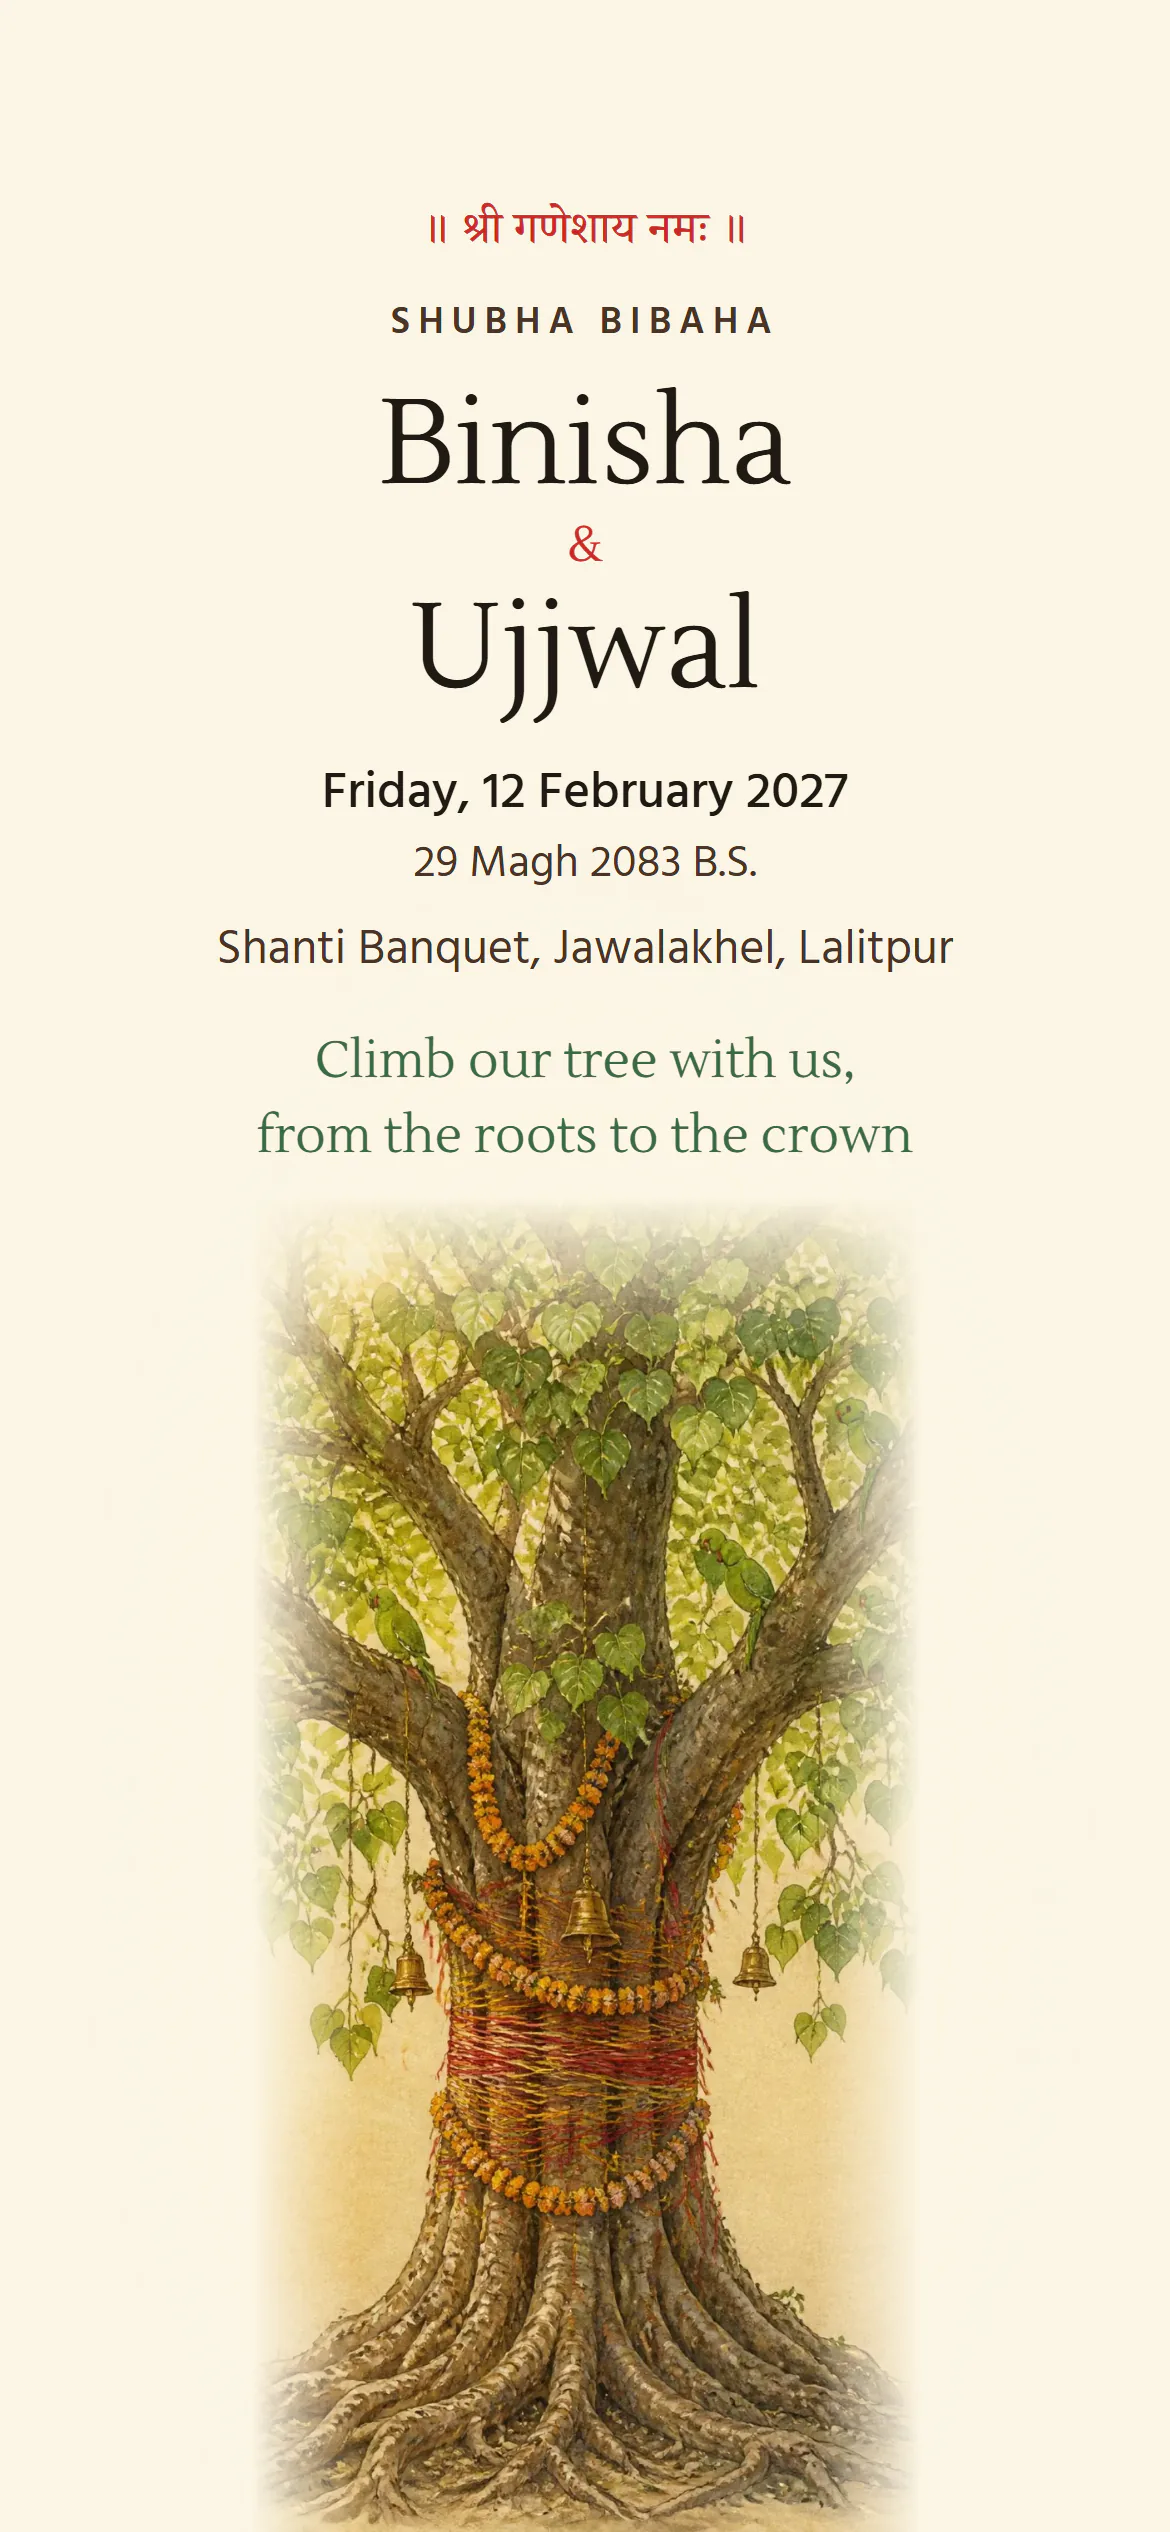
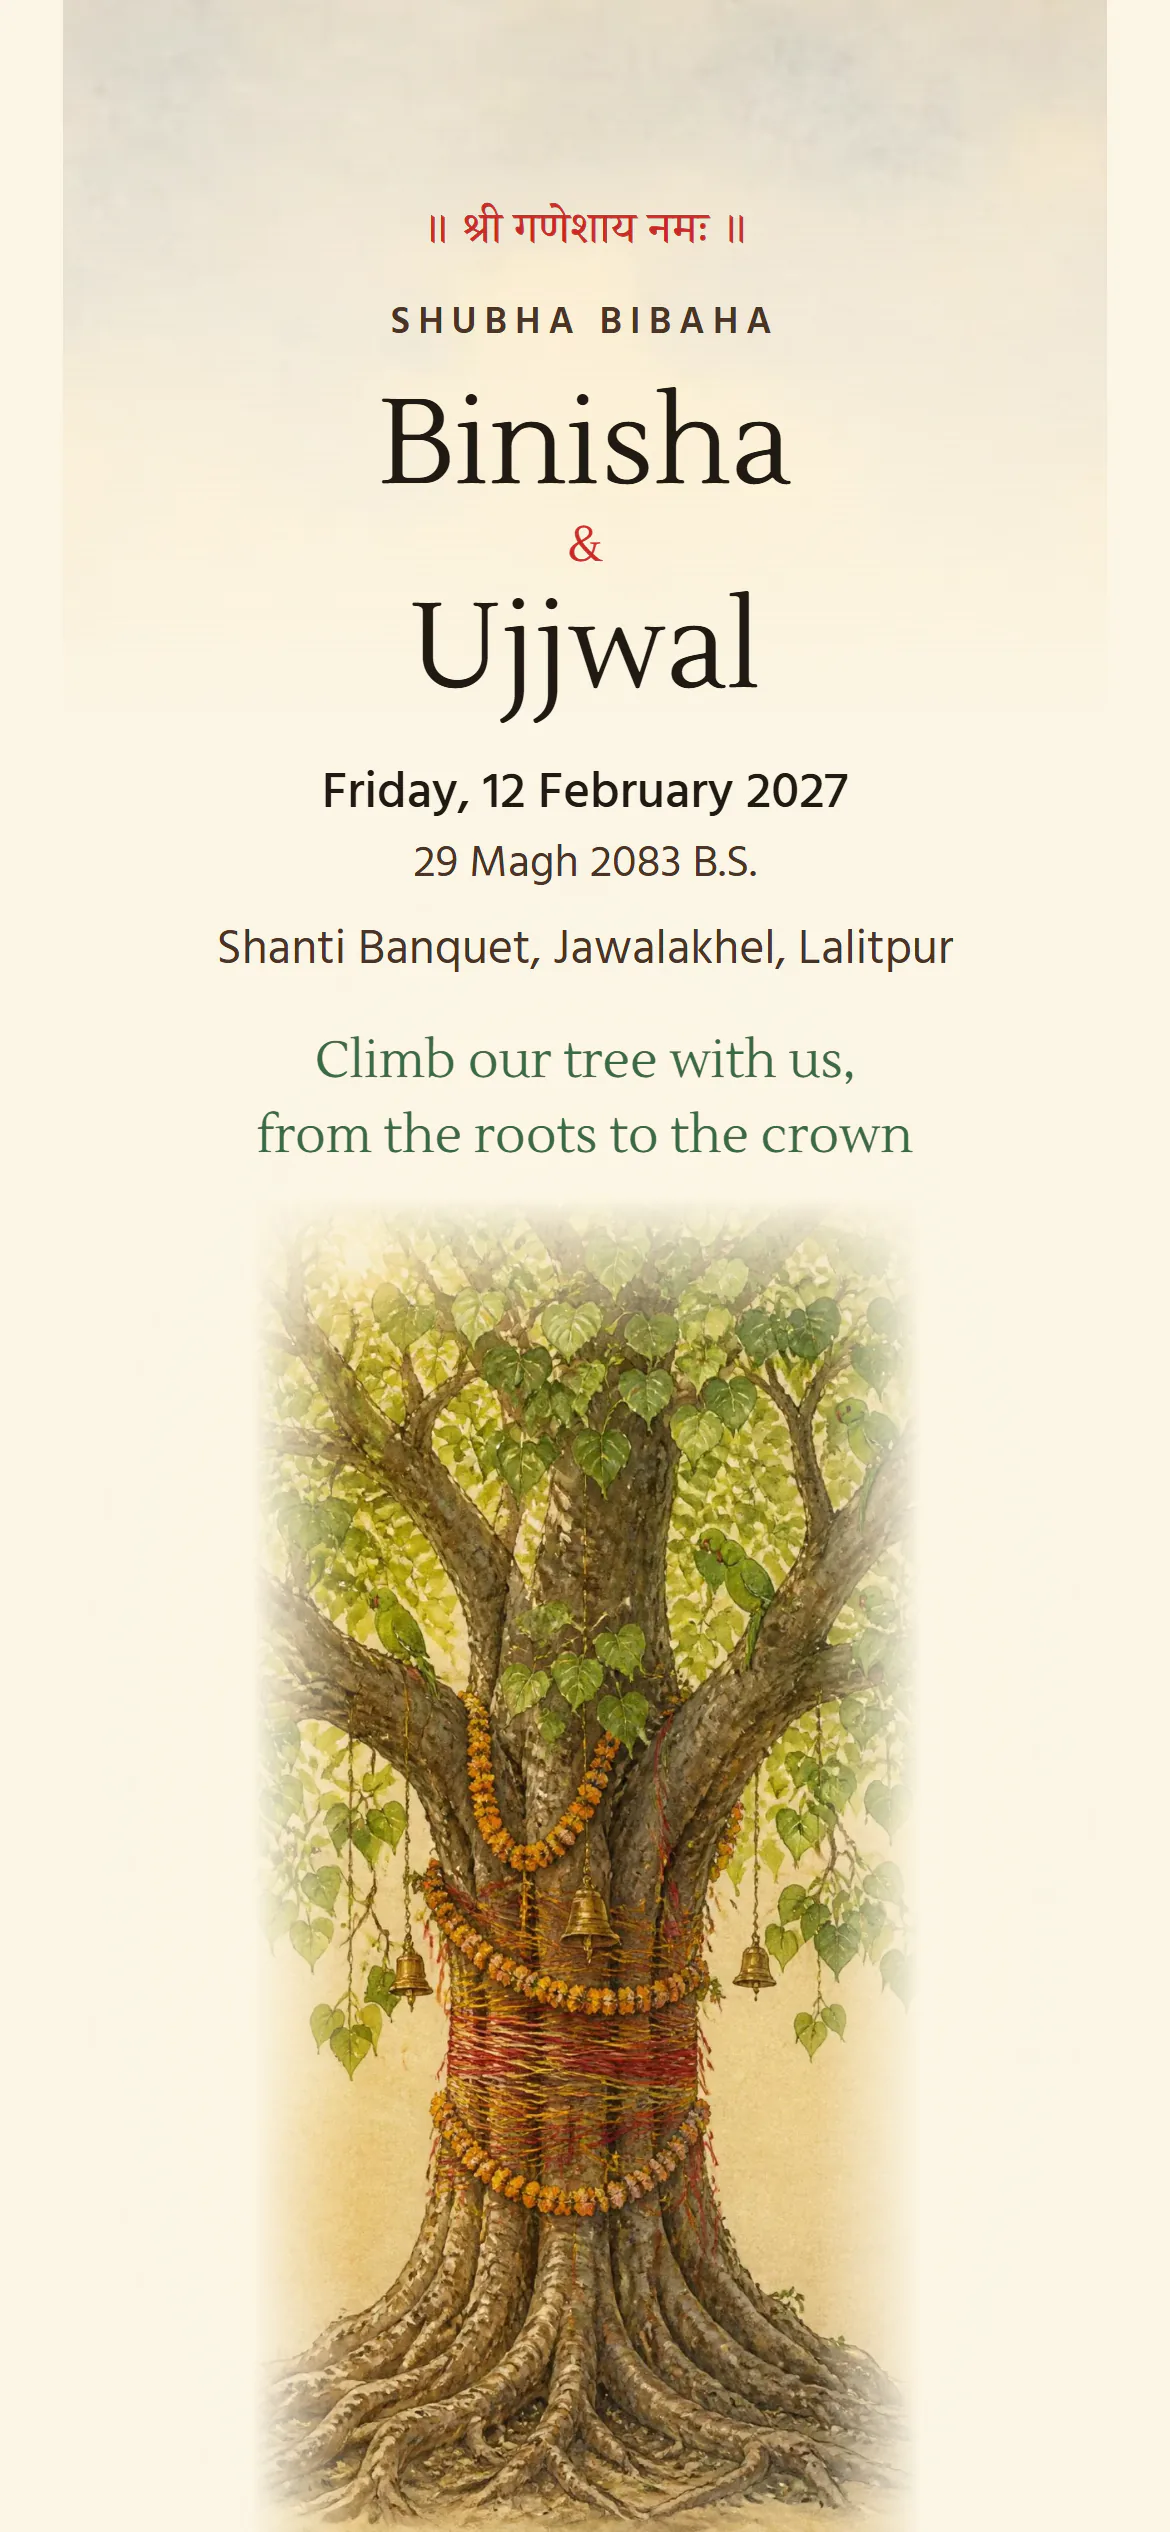
fix(kalpataru): painted full width, wedding decor on the tree, full opening
- desktop: a wider tree plus painted canopy sides (a nearer layer that
  moves faster than the tree), no flat side bands
- wedding decoration hung on the branches: marigold and rose strands on
  mauli thread, hanging brass diyas with marigold tassels (Hindu pages
  only), a toran over the couple and the families, fresh petals at the roots
- opening: the leaf hangs in full-screen foliage, the buttons sit on paper;
  the first screen's words arrive as the tree lands, a soft sky behind them
- a calm paper corner under the language and music buttons

Changed region(s): [[0.0308, 0.0, 0.9538, 0.0936]]

diff --git a/src/themes/kalpataru/main.js b/src/themes/kalpataru/main.js
@@ -22,6 +22,25 @@ const PANELS = [
   { n: 'branches', s: 1.02, x: -0.01, ov: 0.42, c: 0.5 },
   { n: 'crown', s: 1.04, x: -0.02, ov: 0.48, c: 0.5 },
 ];
+// fresh wedding decoration on the tree: [panel, x (panel width), top (panel height), width (tree widths), kind, hindu?]
+const DECOR = [
+  ['roots', 0.5, 0.79, 0.96, 'petals'],
+  ['roots', 0.1, 0.04, 0.052, 'strand'], ['roots', 0.9, 0.08, 0.05, 'strand'],
+  ['trunk', 0.52, 0.12, 0.66, 'toran'],
+  ['trunk', 0.08, 0.3, 0.05, 'strand'], ['trunk', 0.93, 0.26, 0.05, 'strand'],
+  ['fork', 0.47, 0.64, 0.5, 'toran'],
+  ['fork', 0.3, 0.2, 0.06, 'diya', true],
+  ['branches', 0.14, 0.5, 0.055, 'strand'], ['branches', 0.86, 0.44, 0.055, 'strand'], ['branches', 0.32, 0.16, 0.05, 'strand'],
+  ['branches', 0.72, 0.24, 0.06, 'diya', true], ['branches', 0.22, 0.74, 0.06, 'diya', true],
+  ['crown', 0.18, 0.62, 0.05, 'strand'], ['crown', 0.82, 0.58, 0.05, 'strand'],
+];
+const DECOR_AR = { strand: 5.844, diya: 3.352, petals: 0.456, toran: 0.347 };
+const decoImg = (d, i) => {
+  const [, , , , kind, hindu] = d;
+  const set = { toran: '/themes/_nepali/toran-sm.webp 900w, /themes/_nepali/toran.webp 1800w', petals: `${ART}petals-sm.webp 520w, ${ART}petals.webp 900w` }[kind];
+  const src = kind === 'toran' ? '/themes/_nepali/toran-sm.webp' : `${ART}${kind}${kind === 'petals' ? '-sm' : ''}.webp`;
+  return `<img class="kt-deco kt-deco--${kind}" data-i="${i}" src="${src}"${set ? ` srcset="${set}" sizes="(min-width: 900px) 900px, 100vw"` : ''} alt="" decoding="async"${hindu ? ' data-hindu' : ''} />`;
+};
 const pic = (name, { cls = '', sizes = '100vw', alt = '', lazy = true, w = [640, 1152] } = {}) => `<img class="${cls}" src="${ART}${name}-sm.webp" srcset="${ART}${name}-sm.webp ${w[0]}w, ${ART}${name}.webp ${w[1]}w" sizes="${sizes}" alt="${alt}" decoding="async"${lazy ? ' loading="lazy"' : ''} />`;
 const one = (name, { cls = '', alt = '', lazy = true } = {}) => `<img class="${cls}" src="${ART}${name}.webp" alt="${alt}" decoding="async"${lazy ? ' loading="lazy"' : ''} />`;
 const reducedNow = () => document.body.classList.contains('kt-still');
@@ -198,7 +217,9 @@ function page(ctx) {
 
   <section class="kt-climb" id="kt-climb" aria-label="${esc(txt('hero.line').en || 'The invitation')}">
     <div class="kt-stage" id="kt-stage">
-      <div class="kt-tree" id="kt-tree" aria-hidden="true">${PANELS.map((p) => `<div class="kt-p kt-p--${p.n}" data-n="${p.n}">${pic(p.n, { sizes: '(min-width: 900px) 760px, 112vw', lazy: p.n !== 'roots' })}</div>`).join('')}</div>
+      <div class="kt-tree" id="kt-tree" aria-hidden="true">${PANELS.map((p) => `<div class="kt-p kt-p--${p.n}" data-n="${p.n}">${pic(p.n, { sizes: '(min-width: 900px) 1000px, 112vw', lazy: p.n !== 'roots' })}</div>`).join('')}${DECOR.map(decoImg).join('')}</div>
+      <div class="kt-side kt-side--l" aria-hidden="true"></div><div class="kt-side kt-side--r" aria-hidden="true"></div>
+      <i class="kt-corner" aria-hidden="true"></i>
       <div class="kt-flow" id="kt-flow">${stations.join('')}</div>
       <div class="kt-gauge" aria-hidden="true"><i class="kt-gauge__knot"></i></div>
     </div>
@@ -248,11 +269,14 @@ function climb(ctx) {
   if (reducedNow()) { sec.classList.add('is-static'); sts.forEach((s) => s.classList.add('is-here')); return; }
   sec.classList.add('is-live');
 
+  const DEPTH = 1.22;
+  const sideL = stage.querySelector('.kt-side--l'); const sideR = stage.querySelector('.kt-side--r');
+  let sidesOn = false; let sideBase = 0;
   let vw = 0; let vh = 0; let W = 0; let Ht = 0; let D = 1; let keys = []; let geo = {}; let centres = []; let gh = 0;
   function layout() {
     vw = stage.clientWidth; vh = stage.clientHeight;
     const wide = vw >= 900;
-    W = wide ? Math.min(820, vh * 0.92) : Math.max(vw * 1.12, 400);
+    W = wide ? Math.min(1000, vh * 1.1, vw * 0.72) : Math.max(vw * 1.12, 400);
     // stack the paintings from the roots up
     let bottom = 0; geo = {};
     PANELS.forEach((p, i) => {
@@ -269,6 +293,25 @@ function climb(ctx) {
       e.style.setProperty('--fade', `${Math.min(60, ((p.ov * W) / g.h) * 100 + 2).toFixed(1)}%`);
     });
     tree.style.height = `${Ht}px`; tree.style.width = `${W}px`;
+    // the decoration hangs from its painting's branches
+    tree.querySelectorAll('.kt-deco').forEach((el) => {
+      const [n, x, y, w, kind] = DECOR[Number(el.dataset.i)];
+      const g = geo[n]; const ww = w * W;
+      Object.assign(el.style, { left: `${g.left + x * g.w - ww / 2}px`, top: `${g.top + y * g.h}px`, width: `${ww}px`, height: `${ww * DECOR_AR[kind]}px` });
+    });
+    sidesOn = wide;
+    if (wide) {
+      // desktop: painted canopy fills the sides, a nearer layer that moves a little faster than the tree
+      const sw = Math.round((vw - W) / 2 + W * 0.2); const th = sw * (1778 / 640); const step = th * 0.8;
+      const travel = (Ht - vh) * DEPTH + vh; const n = Math.ceil(travel / step) + 1;
+      [sideL, sideR].forEach((side, k) => {
+        if (side.childElementCount !== n) side.innerHTML = Array.from({ length: n }, (_, i) => `<img src="${ART}side-${(i + k) % 2 ? 'b' : 'a'}.webp" alt="" decoding="async" style="top:${(i * step).toFixed(1)}px" />`).join('');
+        else [...side.children].forEach((im, i) => { im.style.top = `${(i * step).toFixed(1)}px`; });
+        Object.assign(side.style, { width: `${sw}px`, height: `${(n - 1) * step + th}px` });
+        side.style.setProperty('--th', `${th}px`);
+      });
+      sideBase = -((n - 1) * step + th - vh);
+    }
     // the paper side: the first and last station sit in the middle of the screen at the two ends
     const first = sts[0]; const last = sts[sts.length - 1];
     flow.style.paddingBottom = `${Math.max(24, (vh - first.offsetHeight) / 2)}px`;
@@ -309,6 +352,13 @@ function climb(ctx) {
     flow.style.transform = `translate3d(0,${yc.toFixed(1)}px,0)`;
     tree.style.transform = `translate3d(${t.x.toFixed(1)}px,${t.y.toFixed(1)}px,0)`;
     knot.style.transform = `translate3d(0,${((1 - p) * gh).toFixed(1)}px,0)`;
+    if (sidesOn) {
+      // nearer than the tree: it travels DEPTH times as far, from its bottom (the roots) to its top (the crown)
+      const f = (Ht - vh) > 0 ? (t.y + (Ht - vh)) / (Ht - vh) : 1;
+      const y = sideBase * (1 - f);
+      sideL.style.transform = `translate3d(0,${y.toFixed(1)}px,0)`;
+      sideR.style.transform = `translate3d(0,${y.toFixed(1)}px,0) scaleX(-1)`;
+    }
     for (let i = 0; i < sts.length; i++) {
       const s = centres[i] + yc;
       const near = Math.abs(s - vh / 2) < vh * 0.46;
@@ -475,7 +525,7 @@ const SPEC = {
     flock(tl, T0 + DUR - 0.25);
     tl.set(gateEl, { autoAlpha: 0 }, T0 + DUR + 0.1);
     tl.to({}, { duration: 0.01 }, T0 + DUR + 0.15);
-    return T0 + DUR - 0.2;
+    return T0 + DUR * 0.5; // the words settle in as the tree lands
   },
 
   ambient: () => {},

diff --git a/src/themes/kalpataru/kalpataru.css b/src/themes/kalpataru/kalpataru.css
@@ -44,9 +44,11 @@ html[data-lang='ne'] .kt-lede { font-size: 18px; line-height: 1.8; }
 .kt-g { position: absolute; inset: 0; overflow: hidden; }
 .kt-g__paper { position: absolute; inset: 0;
   background: radial-gradient(90% 60% at 50% 42%, #FFFBEF 0%, #FBF3DE 55%, #F1E3C2 100%); }
-.kt-g__canopy { position: absolute; left: 0; right: 0; top: 0; height: 46svh; opacity: 0.95;
-  -webkit-mask-image: linear-gradient(to bottom, #000 58%, transparent 96%); mask-image: linear-gradient(to bottom, #000 58%, transparent 96%); }
-.kt-g__canopy img { display: block; width: 100%; height: 100%; object-fit: cover; object-position: 50% 74%; }
+.kt-g__canopy { position: absolute; left: 0; right: 0; bottom: 0; top: -40svh; } /* the crown's sky stays above the screen */
+.kt-g__canopy img { display: block; width: 100%; height: 100%; object-fit: cover; object-position: 50% 68%; }
+/* a calm corner of paper under the language and music buttons */
+.kt-g::after, .kt-corner { content: ''; position: absolute; right: 0; top: 0; z-index: 4; width: 210px; height: 140px; pointer-events: none;
+  background: radial-gradient(100% 100% at 100% 0, rgba(251, 245, 229, 0.97) 0, rgba(251, 245, 229, 0.88) 38%, rgba(251, 245, 229, 0) 100%); }
 .kt-g__hang { position: absolute; left: 50%; top: 0; width: min(68vw, 38svh, 330px); translate: -50% 0; display: flex; flex-direction: column; align-items: center;
   perspective: 1400px; transform-origin: 50% 0; animation: kt-sway 6s ease-in-out infinite alternate; }
 @keyframes kt-sway { from { transform: rotate(-0.9deg); } to { transform: rotate(0.9deg); } }
@@ -74,7 +76,8 @@ html[data-lang='ne'] .kt-lede { font-size: 18px; line-height: 1.8; }
 .kt-leaf__amp { font-size: 0.6em; color: var(--su-accent); line-height: 1.3; }
 .kt-leaf__d { margin: 2px 0 0; font: 500 14px/1.4 var(--su-f-body); color: var(--kt-bark); }
 .kt-leaf__d .l-ne { font-size: 15px; }
-.theme-kalpataru .su-gate__ui { bottom: max(26px, 4.5svh); }
+.theme-kalpataru .su-gate__ui { bottom: max(22px, 4svh); padding: 18px 18px 12px; background: rgba(255, 252, 244, 0.96); border-radius: 8px;
+  box-shadow: 0 1px 0 rgba(74, 52, 38, 0.1), 0 24px 44px -24px rgba(31, 26, 19, 0.55); }
 .theme-kalpataru .su-gate__line { font: 400 19px/1.4 var(--su-f-display); color: var(--su-ink); }
 .theme-kalpataru .su-gate__line .l-ne { font: 500 18px/1.5 var(--kt-f-deva-d); }
 .theme-kalpataru .su-quiet { color: var(--kt-bark); }
@@ -84,6 +87,9 @@ html[data-lang='ne'] .kt-lede { font-size: 18px; line-height: 1.8; }
 .kt-hero { position: relative; height: 100svh; min-height: 600px; box-sizing: border-box; display: grid; grid-template-rows: auto minmax(0, 1fr); justify-items: center;
   padding: max(64px, 8svh) 16px 0; overflow: hidden;
   background: radial-gradient(70% 55% at 50% 72%, #FFF8E4 0%, rgba(255, 248, 228, 0) 70%), var(--su-bg); }
+.kt-hero::before { content: ''; position: absolute; left: 0; right: 0; top: 0; height: 260px; pointer-events: none; opacity: 0.7;
+  background: url('/themes/kalpataru/art/crown-sm.webp') 50% 0 / max(100%, 640px) auto no-repeat;
+  -webkit-mask-image: linear-gradient(to bottom, #000 10%, transparent 92%); mask-image: linear-gradient(to bottom, #000 10%, transparent 92%); }
 .kt-hero__copy { position: relative; z-index: 2; width: 100%; max-width: 560px; padding-bottom: 6px; text-align: center; }
 .kt-hero__inv { margin: 0 0 10px; font: 500 15px/1.5 var(--kt-f-deva-d); color: var(--su-accent); }
 .kt-hero__inv .l-en { font-family: var(--kt-f-deva-d); }
@@ -115,6 +121,7 @@ html[data-lang='ne'] .kt-hero__date { font-size: 18px; }
 .theme-kalpataru .su-cue { color: var(--kt-bark); }
 @media (min-width: 900px) {
   .kt-hero { grid-template-columns: minmax(0, 1fr) minmax(0, 1fr); grid-template-rows: 1fr; align-items: center; padding: 0 5vw; column-gap: 4vw; }
+  .kt-hero::before { display: none; }
   .kt-hero__copy { justify-self: end; text-align: left; }
   .kt-hero__names { align-items: flex-start; font-size: clamp(56px, 5.6vw, 92px); }
   .kt-hero__line { margin-left: 0; }
@@ -136,6 +143,19 @@ html[data-lang='ne'] .kt-hero__date { font-size: 18px; }
     -webkit-mask-image: linear-gradient(to top, transparent 0, #000 var(--fade, 20%)), linear-gradient(to right, transparent 0, #000 15%, #000 85%, transparent 100%);
     -webkit-mask-composite: source-in;
     mask-image: linear-gradient(to top, transparent 0, #000 var(--fade, 20%)), linear-gradient(to right, transparent 0, #000 15%, #000 85%, transparent 100%);
+    mask-composite: intersect; }
+}
+.kt-deco { position: absolute; display: block; pointer-events: none; }
+.kt-deco--strand, .kt-deco--diya { filter: drop-shadow(0 8px 6px rgba(40, 25, 10, 0.28)); }
+.kt-side { display: none; }
+@media (min-width: 900px) {
+  .kt-side { display: block; position: absolute; top: 0; z-index: 1; will-change: transform; pointer-events: none; }
+  .kt-side--l { left: 0; }
+  .kt-side--r { right: 0; }
+  .kt-side img { position: absolute; left: 0; display: block; width: 100%; height: var(--th);
+    -webkit-mask-image: linear-gradient(to right, #000 0, #000 50%, transparent 96%), linear-gradient(to bottom, transparent 0, #000 12%, #000 88%, transparent 100%);
+    -webkit-mask-composite: source-in;
+    mask-image: linear-gradient(to right, #000 0, #000 50%, transparent 96%), linear-gradient(to bottom, transparent 0, #000 12%, #000 88%, transparent 100%);
     mask-composite: intersect; }
 }
 .kt-flow { position: absolute; left: 0; right: 0; top: 0; z-index: 2; display: flex; flex-direction: column-reverse; align-items: center; gap: 36svh; padding-inline: 16px; will-change: transform; }
@@ -274,7 +294,7 @@ html[data-lang='ne'] .kt-ev__date { font-size: 18px; }
 
 /* without motion: three still crops of the tree between the parts, no pin */
 .kt-climb.is-static .kt-stage { height: auto; overflow: visible; background: var(--kt-warm); }
-.kt-climb.is-static .kt-tree, .kt-climb.is-static .kt-gauge { display: none; }
+.kt-climb.is-static .kt-tree, .kt-climb.is-static .kt-gauge, .kt-climb.is-static .kt-side, .kt-climb.is-static .kt-corner { display: none; }
 .kt-climb.is-static .kt-flow { position: static; flex-direction: column; gap: 56px; padding: 56px 16px 72px; transform: none !important; }
 .kt-climb.is-static .kt-st { opacity: 1; transform: none; }
 .kt-climb.is-static .kt-crop { display: block; width: calc(100% + 32px); max-width: 900px; height: 58svh; margin: 0 -16px; overflow: hidden;
